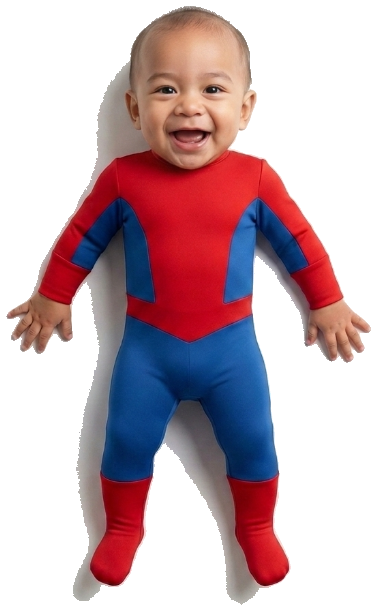
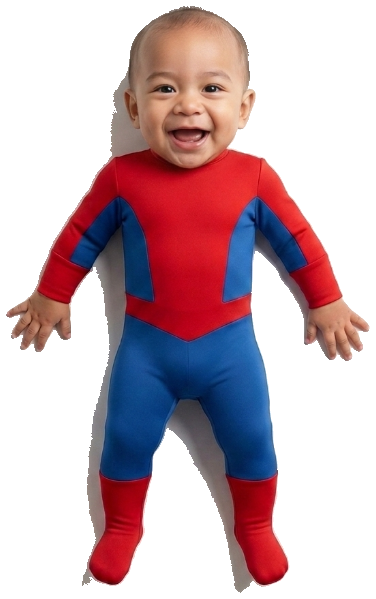
Fix double effect: remove baked-in shadow from photo + remove CSS drop-shadow

diff --git a/index.html b/index.html
@@ -448,7 +448,7 @@
     height: 95px;
     width: auto;
     z-index: 3;
-    filter: drop-shadow(0 2px 6px rgba(0,0,0,0.5));
+    filter: none;
     animation: babyBounce 0.5s ease-in-out infinite;
   }
   .goat-cartoon {
